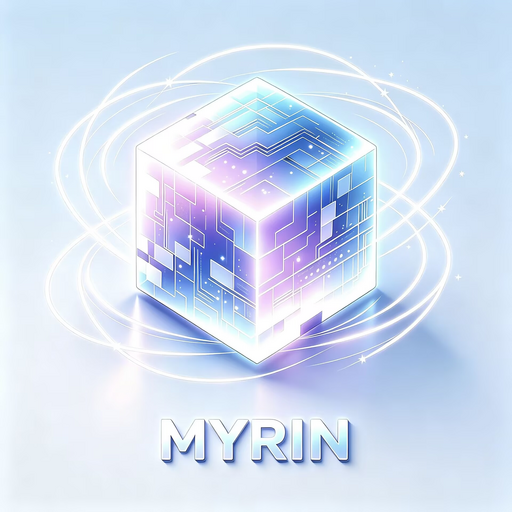
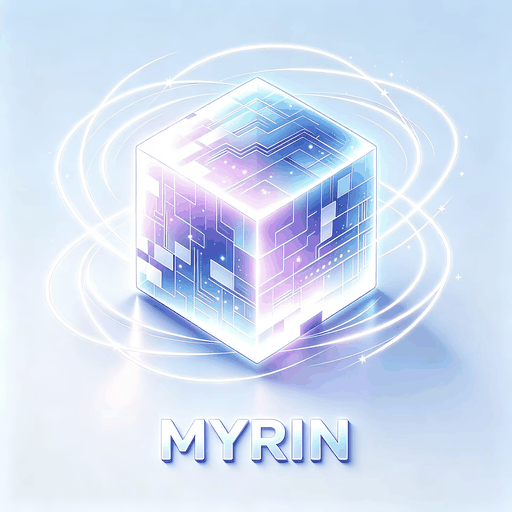
v1.3.2：修复配置界面权限判定（单机/局域网主机/主界面可修改，多人服务器普通玩家只读）+ 图标512尺寸不变压缩体积(265KB→95KB)

diff --git a/26.3-fabric/src/main/java/com/myrin/tp/MyrinConfigScreen.java b/26.3-fabric/src/main/java/com/myrin/tp/MyrinConfigScreen.java
@@ -179,12 +179,18 @@ public class MyrinConfigScreen extends Screen {
         }
     }
 
-    /** 客户端本地判断当前玩家是否 OP（26.3 权限集 API）。 */
+    /** 是否有权修改配置：单机/局域网主机、主界面（未进游戏）或服务端同步的 OP 权限均放行。 */
     private boolean isOp() {
         try {
             net.minecraft.client.player.LocalPlayer p = this.minecraft.player;
-            return p != null && p.permissions().hasPermission(
-                    new net.minecraft.server.permissions.Permission.HasCommandLevel(net.minecraft.server.permissions.PermissionLevel.GAMEMASTERS));
+            if (p != null && p.permissions().hasPermission(
+                    new net.minecraft.server.permissions.Permission.HasCommandLevel(net.minecraft.server.permissions.PermissionLevel.GAMEMASTERS))) {
+                return true;
+            }
+            if (this.minecraft.hasSingleplayerServer()) {
+                return true;
+            }
+            return p == null;
         } catch (Exception e) {
             return false;
         }

diff --git a/1.20.1-forge/src/main/java/com/myrin/tp/MyrinConfigScreen.java b/1.20.1-forge/src/main/java/com/myrin/tp/MyrinConfigScreen.java
@@ -179,11 +179,19 @@ public class MyrinConfigScreen extends Screen {
         }
     }
 
-    /** 客户端本地判断当前玩家是否 OP。 */
+    /** 是否有权修改配置：单机/局域网主机、主界面（未进游戏）或服务端同步的 OP 权限均放行。 */
     private boolean isOp() {
         try {
             net.minecraft.client.player.LocalPlayer p = this.minecraft.player;
-            return p != null && p.hasPermissions(2);
+            if (p != null && p.hasPermissions(2)) {
+                return true;
+            }
+            // 单人或局域网主机：当前玩家即服务器所有者，视为可修改
+            if (this.minecraft.hasSingleplayerServer()) {
+                return true;
+            }
+            // 主界面（未进入服务器）：仅操作本地配置文件，放行
+            return p == null;
         } catch (Exception e) {
             return false;
         }

diff --git a/1.21.1-neoforge/src/main/java/com/myrin/tp/MyrinConfigScreen.java b/1.21.1-neoforge/src/main/java/com/myrin/tp/MyrinConfigScreen.java
@@ -179,11 +179,19 @@ public class MyrinConfigScreen extends Screen {
         }
     }
 
-    /** 客户端本地判断当前玩家是否 OP。 */
+    /** 是否有权修改配置：单机/局域网主机、主界面（未进游戏）或服务端同步的 OP 权限均放行。 */
     private boolean isOp() {
         try {
             net.minecraft.client.player.LocalPlayer p = this.minecraft.player;
-            return p != null && p.hasPermissions(2);
+            if (p != null && p.hasPermissions(2)) {
+                return true;
+            }
+            // 单人或局域网主机：当前玩家即服务器所有者，视为可修改
+            if (this.minecraft.hasSingleplayerServer()) {
+                return true;
+            }
+            // 主界面（未进入服务器）：仅操作本地配置文件，放行
+            return p == null;
         } catch (Exception e) {
             return false;
         }
